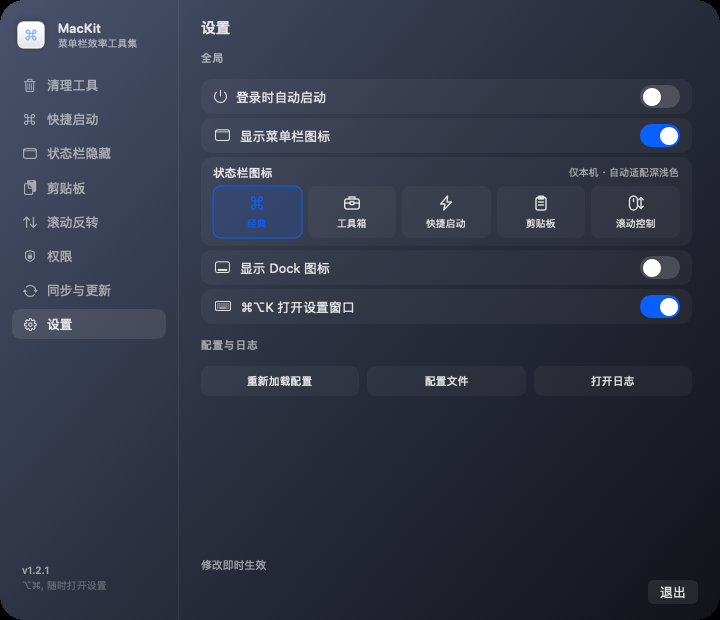
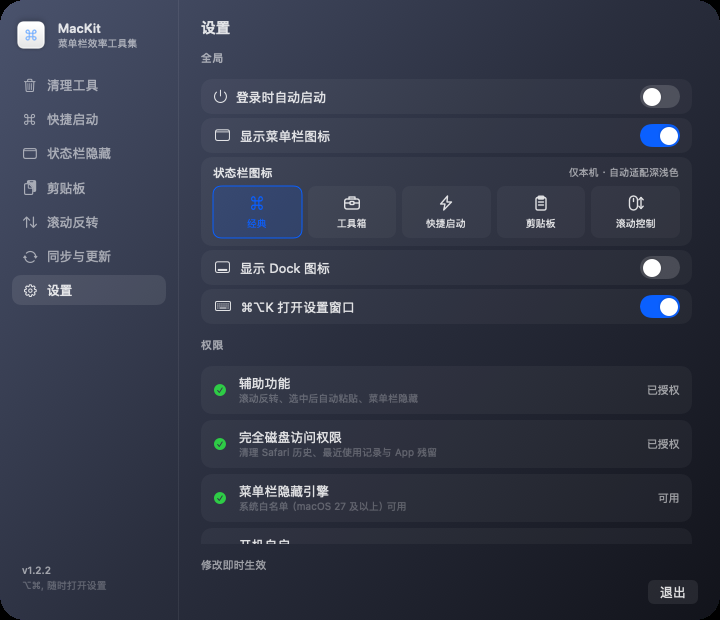
权限页并入设置，侧栏回到七页
- 移除独立「权限」页，授权体检作为「设置 → 权限」分组
- 设置页统一滚动，重新检查按钮与提示随分组展示
- 删除多余截图，更新 README 页面清单
- 版本 1.2.2（build 28）

diff --git a/Sources/main.swift b/Sources/main.swift
@@ -1187,7 +1187,6 @@ enum SettingsPage: String, CaseIterable, Identifiable {
     case menuBar
     case clipboard
     case scroll
-    case permissions
     case sync
     case settings
 
@@ -1200,7 +1199,6 @@ enum SettingsPage: String, CaseIterable, Identifiable {
         case .menuBar: return "状态栏隐藏"
         case .clipboard: return "剪贴板"
         case .scroll: return "滚动反转"
-        case .permissions: return "权限"
         case .sync: return "同步与更新"
         case .settings: return "设置"
         }
@@ -1213,7 +1211,6 @@ enum SettingsPage: String, CaseIterable, Identifiable {
         case .menuBar: return "menubar.rectangle"
         case .clipboard: return "doc.on.clipboard"
         case .scroll: return "arrow.up.arrow.down"
-        case .permissions: return "lock.shield"
         case .sync: return "arrow.triangle.2.circlepath"
         case .settings: return "gearshape"
         }
@@ -1397,7 +1394,6 @@ struct SettingsView: View {
                 case .menuBar: menuBarPage
                 case .clipboard: EmptyView()
                 case .scroll: ScrollSettingsPage(engine: model.scrollReversal)
-                case .permissions: permissionsPage
                 case .sync: syncPage
                 case .settings: appSettingsPage
                 }
@@ -1537,8 +1533,33 @@ struct SettingsView: View {
             sectionLabel("全局")
             settingsRows
 
+            sectionLabel("权限")
+            permissionsSection
+
             sectionLabel("配置与日志")
             configurationActions
+        }
+        .onAppear { model.refreshPermissions() }
+    }
+
+    private var permissionsSection: some View {
+        VStack(spacing: 6) {
+            ForEach(model.permissions) { item in
+                permissionRow(item)
+            }
+            HStack {
+                Button {
+                    model.refreshPermissions()
+                } label: {
+                    Label("重新检查", systemImage: "arrow.clockwise")
+                        .font(.system(size: 12))
+                }
+                .buttonStyle(.bordered)
+                Spacer()
+                Text("改动权限后重启 MacKit")
+                    .font(.system(size: 10))
+                    .foregroundStyle(.tertiary)
+            }
         }
     }
 
@@ -1687,29 +1708,6 @@ struct SettingsView: View {
                 .lineLimit(1)
                 .fixedSize(horizontal: true, vertical: false)
         }
-    }
-
-    @ViewBuilder
-    private var permissionsPage: some View {
-        VStack(alignment: .leading, spacing: 14) {
-            sectionLabel("系统授权")
-            VStack(spacing: 6) {
-                ForEach(model.permissions) { item in
-                    permissionRow(item)
-                }
-            }
-            HStack {
-                Button {
-                    model.refreshPermissions()
-                } label: {
-                    Label("重新检查", systemImage: "arrow.clockwise")
-                        .font(.system(size: 12))
-                }
-                .buttonStyle(.bordered)
-                Spacer()
-            }
-        }
-        .onAppear { model.refreshPermissions() }
     }
 
     private func permissionRow(_ item: MacKitModel.PermissionItem) -> some View {
@@ -1968,7 +1966,6 @@ struct SettingsView: View {
     private var footerText: String {
         switch page {
         case .tools: return toolsFooterText
-        case .permissions: return "改动权限后重启 MacKit 才会完全生效"
         case .sync: return "同步与更新设置"
         case .settings: return "修改即时生效"
         case .launcher: return model.status

diff --git a/README.md b/README.md
@@ -5,7 +5,7 @@
 - 纯 Swift + AppKit / SwiftUI，无第三方运行时依赖
 - 常驻菜单栏，平时不占 Dock（`LSUIElement`）；打开设置窗口时临时显示 Dock 图标
 - 用 Carbon `RegisterEventHotKey` 注册全局热键，打开窗口和复制历史**不需要辅助功能权限**；可选自动粘贴需要该权限
-- 设置窗口左侧是侧栏，八页：**清理工具**（清空记录 / 卸载残留）、**快捷启动**（全局快捷键）、**状态栏隐藏**（折叠菜单栏图标）、**剪贴板**（历史与保存方式）、**滚动反转**（设备与方向）、**权限**（授权体检）、**同步与更新**（iCloud 同步 / 版本升级）、**设置**（App 全局开关），可拖动排序
+- 设置窗口左侧是侧栏，七页：**清理工具**（清空记录 / 卸载残留）、**快捷启动**（全局快捷键）、**状态栏隐藏**（折叠菜单栏图标）、**剪贴板**（历史与保存方式）、**滚动反转**（设备与方向）、**同步与更新**（iCloud 同步 / 版本升级）、**设置**（全局开关与权限体检），可拖动排序
 - 清理工具：清空 Safari 浏览记录（按今天 / 今天和昨天 / 一周 / 一个月 / 全部）、最近使用文件记录；卸载 App 并清理 `~/Library` 残留（先进废纸篓，可恢复）
 - 开机自启时只驻留菜单栏；**手动打开（Finder 双击 / Dock / `open`）会直接弹出设置窗口**
 - 默认注册 **⌘⌥K** 直接打开设置窗口，可在设置里关掉
@@ -18,9 +18,9 @@
 - 滚动反转：默认仅反转鼠标垂直滚动，触控板不变；支持鼠标、触控板与水平/垂直分别控制，需辅助功能权限
 - 配置是一个 JSON 文件，改完点「重新加载配置」即生效
 
-| 清理工具 | 快捷启动 | 状态栏隐藏 | 权限 |
-|---|---|---|---|
-| ![清理工具](docs/tools-window.png) | ![快捷启动](docs/launcher-window.png) | ![状态栏隐藏](docs/menubar-window.png) | ![权限](docs/permissions-window.png) |
+| 清理工具 | 快捷启动 | 状态栏隐藏 |
+|---|---|---|
+| ![清理工具](docs/tools-window.png) | ![快捷启动](docs/launcher-window.png) | ![状态栏隐藏](docs/menubar-window.png) |
 
 | 同步与更新 | 设置 |
 |---|---|
@@ -68,7 +68,7 @@
 
 菜单栏图标 →「偏好设置…」（⌘,），或者直接手动打开 App。窗口分成侧栏和右侧内容两块：
 
-- 侧栏八项可以上下拖动换顺序，顺序记在 `UserDefaults` 里
+- 侧栏七项可以上下拖动换顺序，顺序记在 `UserDefaults` 里
 - 每次打开默认停在**清理工具**页
 - 状态栏菜单只保留「偏好设置…」和「退出 MacKit」，不再重复列出快捷键、配置、更新、开机自启或折叠设置
 
@@ -164,7 +164,7 @@ macOS 27 上隐藏是**按 App 生效**的：一个 App 有多个图标会一起
 
 ## 权限体检
 
-「权限」页列出 MacKit 需要的系统授权及当前状态：
+「设置」页的「权限」分组列出 MacKit 需要的系统授权及当前状态：
 
 | 项目 | 用途 | 判定方式 |
 |---|---|---|
